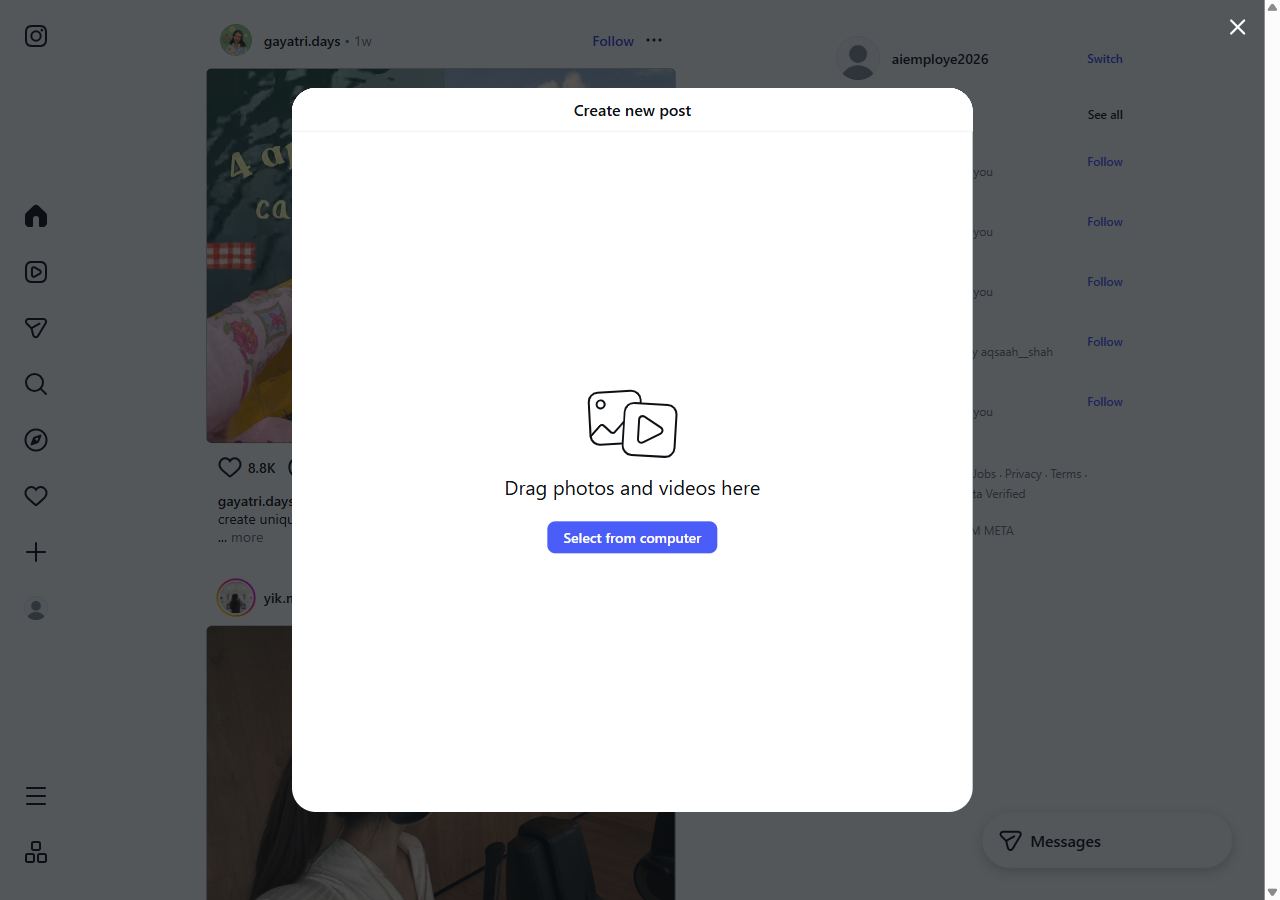
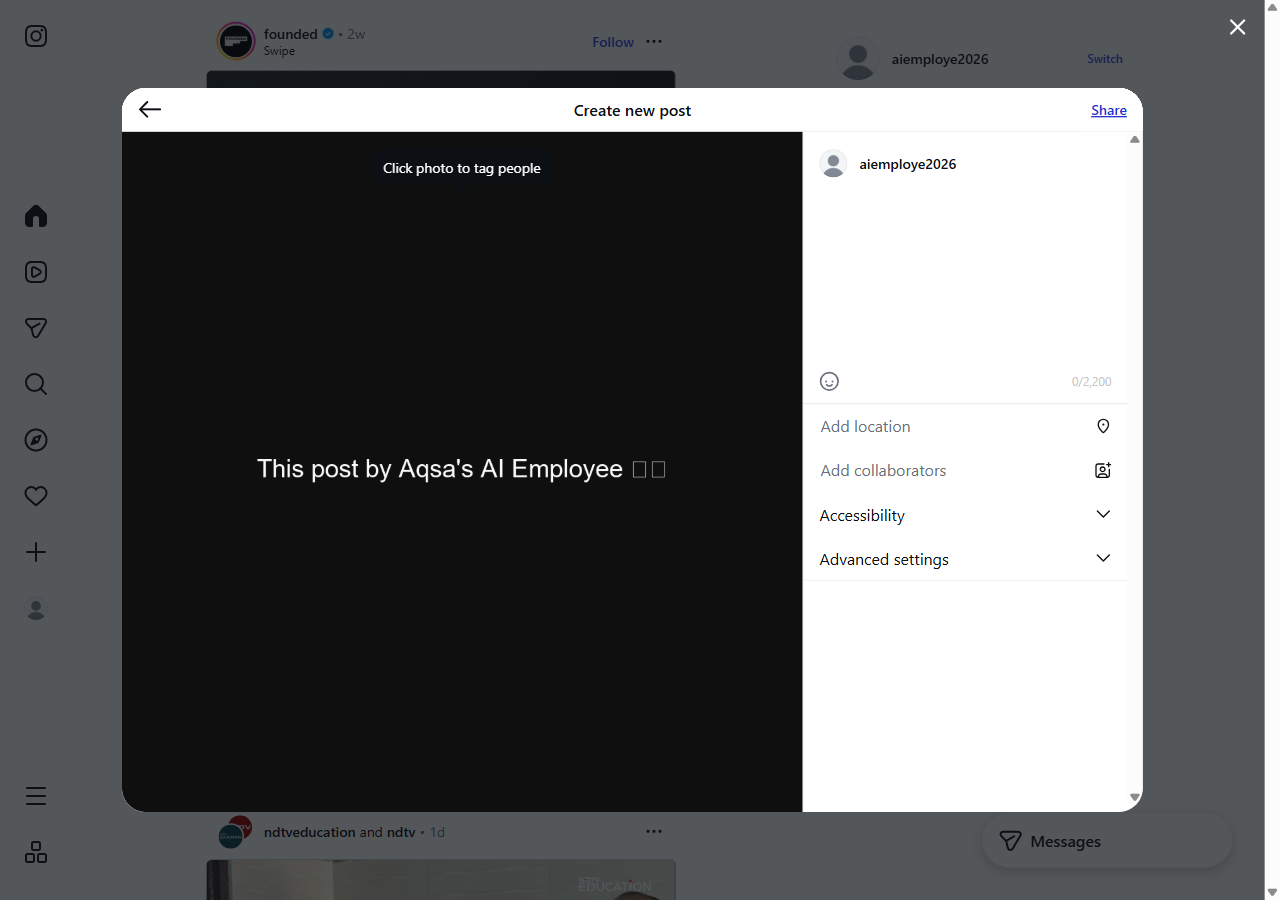
fixes

diff --git a/watchers/instagram_watcher.py b/watchers/instagram_watcher.py
@@ -297,33 +297,39 @@ class InstagramPoster:
 
                 # Upload the image via file input
                 logger.info(f"Uploading image: {img_path}")
+                uploaded = False
+
+                # Method 1: Direct set on hidden input (most reliable)
                 try:
-                    # Set file on the hidden file input
-                    with page.expect_file_chooser() as fc_info:
-                        # Try clicking "Select from computer" button
-                        for sel in [
-                            "button:has-text('Select from computer')",
-                            "button:has-text('Select from')",
-                            "input[type='file']",
-                        ]:
-                            try:
-                                el = page.wait_for_selector(sel, timeout=5000)
-                                if el:
-                                    el.click()
-                                    break
-                            except Exception:
-                                continue
-                    fc_info.value.set_files(str(img_path))
-                    logger.info("Image uploaded via file chooser.")
-                except Exception:
-                    # Fallback: set file directly on input
+                    file_input = page.query_selector("input[type='file']")
+                    if file_input:
+                        page.evaluate("el => el.removeAttribute('style')", file_input)
+                        file_input.set_input_files(str(img_path))
+                        logger.info("Image uploaded via direct input.")
+                        uploaded = True
+                except Exception as e1:
+                    logger.warning(f"Direct input failed: {e1}")
+
+                # Method 2: File chooser via button click
+                if not uploaded:
                     try:
-                        file_input = page.wait_for_selector("input[type='file']", timeout=5000)
-                        if file_input:
-                            file_input.set_input_files(str(img_path))
-                            logger.info("Image set via input[type=file].")
-                    except Exception as fe:
-                        logger.warning(f"File upload fallback failed: {fe}")
+                        with page.expect_file_chooser(timeout=10000) as fc_info:
+                            for sel in [
+                                "button:has-text('Select from computer')",
+                                "button:has-text('Select from')",
+                            ]:
+                                try:
+                                    el = page.wait_for_selector(sel, timeout=3000)
+                                    if el and el.is_visible():
+                                        el.click()
+                                        break
+                                except Exception:
+                                    continue
+                        fc_info.value.set_files(str(img_path))
+                        logger.info("Image uploaded via file chooser.")
+                        uploaded = True
+                    except Exception as e2:
+                        logger.warning(f"File chooser failed: {e2}")
 
                 time.sleep(3)
                 page.screenshot(path=str(debug_dir / "ig_3_uploaded.png"))

diff --git a/watchers/facebook_watcher.py b/watchers/facebook_watcher.py
@@ -170,8 +170,11 @@ class FacebookPoster:
 
                 # ── Login check ────────────────────────────────────────────────
                 logger.info("Opening Facebook...")
-                page.goto("https://www.facebook.com/", wait_until="commit", timeout=60000)
-                time.sleep(4)
+                try:
+                    page.goto("https://www.facebook.com/", wait_until="domcontentloaded", timeout=120000)
+                except Exception:
+                    pass
+                time.sleep(7)
 
                 # Session expired?
                 if "login" in page.url or page.query_selector("input[name='email']"):
@@ -185,8 +188,11 @@ class FacebookPoster:
 
                 # ── Go to Facebook Page ────────────────────────────────────────
                 logger.info(f"Navigating to Page: {FACEBOOK_PAGE_URL}")
-                page.goto(FACEBOOK_PAGE_URL, wait_until="commit", timeout=60000)
-                time.sleep(4)
+                try:
+                    page.goto(FACEBOOK_PAGE_URL, wait_until="domcontentloaded", timeout=120000)
+                except Exception:
+                    pass
+                time.sleep(7)
 
                 # Screenshot 1 — page load
                 debug_dir = Path("debug_screenshots")
@@ -229,11 +235,14 @@ class FacebookPoster:
 
                 # ── Navigate to Meta Business Suite composer ───────────────────
                 logger.info("Navigating to Meta Business Suite post composer...")
-                page.goto(
-                    "https://business.facebook.com/latest/composer/",
-                    wait_until="commit", timeout=60000
-                )
-                time.sleep(5)
+                try:
+                    page.goto(
+                        "https://business.facebook.com/latest/composer/",
+                        wait_until="domcontentloaded", timeout=120000
+                    )
+                except Exception:
+                    pass
+                time.sleep(10)
                 page.screenshot(path=str(debug_dir / "fb_composer_page.png"))
                 logger.info("Screenshot: debug_screenshots/fb_composer_page.png")
 

diff --git a/watchers/twitter_watcher.py b/watchers/twitter_watcher.py
@@ -196,15 +196,18 @@ class TwitterPoster:
                 page = context.new_page()
 
                 logger.info("Opening X (Twitter)...")
-                page.goto("https://x.com/home", wait_until="domcontentloaded", timeout=60000)
+                try:
+                    page.goto("https://x.com/home", wait_until="domcontentloaded", timeout=120000)
+                except Exception:
+                    pass
 
                 # Wait for page to fully load — sidebar nav is a reliable signal
                 try:
-                    page.wait_for_selector("[data-testid='SideNav_NewTweet_Button']", timeout=20000)
+                    page.wait_for_selector("[data-testid='SideNav_NewTweet_Button']", timeout=40000)
                     logger.info("Home page loaded.")
                 except Exception:
                     pass
-                time.sleep(3)
+                time.sleep(6)
 
                 if "login" in page.url or "signin" in page.url:
                     browser.close()

diff --git a/watchers/linkedin_watcher.py b/watchers/linkedin_watcher.py
@@ -159,9 +159,11 @@ class LinkedInPoster:
 
                 # ── Create post ────────────────────────────────────────────────
                 logger.info("Going to LinkedIn feed to open post composer...")
-                page.goto("https://www.linkedin.com/feed/", timeout=60000)
-                page.wait_for_load_state("domcontentloaded")
-                time.sleep(5)
+                try:
+                    page.goto("https://www.linkedin.com/feed/", wait_until="domcontentloaded", timeout=120000)
+                except Exception:
+                    pass  # page may still be usable even if full load times out
+                time.sleep(8)
                 page.screenshot(path="debug_screenshots/li_post_new.png")
 
                 # Click "Start a post" button in the feed share box

diff --git a/AI_Employee_Vault/Done/INSTAGRAM_2026-03-31.md b/AI_Employee_Vault/Done/INSTAGRAM_2026-03-31.md
@@ -1,40 +1,13 @@
 ---
-type: instagram_post
-topic: Pakistan tech scene
-drafted: 2026-03-31T05:01:00.114955+00:00
-status: posted
-char_count: 632
+platform: instagram
+date: 2026-03-31
+status: pending
+media: lotus_underwater_nature.jpg
+caption: This post by Aqsa's AI Employee 🤖✨
 ---
 
-# Instagram Post — 2026-03-31
-
-> **Topic:** Pakistan tech scene
-> **Drafted by:** AI Employee (Instagram Scheduler)
-> **Char count:** 632 / 2200
-
----
-
-## Post Content
-
-Pakistan's tech scene isn't "emerging" anymore — it's here. 🚀
-
-We're building AI tools, shipping SaaS products, and closing global clients from Lahore, Karachi, and Islamabad. No permission needed. No gatekeepers.
-
-I build full stack systems and AI solutions that run 24/7 — because the world doesn't wait for your timezone, and neither should your software.
-
-The talent here is real. The hunger is unmatched. And the best part? We're just getting started. 💻🇵🇰
-
-What's one thing about Pakistan's tech scene that deserves more attention? Drop it below 👇
-
-#PakistanTech #FullStackDeveloper #AIEngineer #BuildInPublic #TechFromPakistan
-
----
-
-## Instructions
-- **APPROVE:** Move this file to `/Approved/` — Instagram Watcher will auto-post it
-- **EDIT:** Edit the Post Content above, then move to `/Approved/`
-- **REJECT:** Move this file to `/Rejected/`
+This post by Aqsa's AI Employee 🤖✨
 
 
-## Posted [2026-03-31T05:19:32.386972+00:00]
+## Posted [2026-04-01T11:04:02.464071+00:00]
 - **Result:** Post published on Instagram

diff --git a/AI_Employee_Vault/Pending_Approval/WHATSAPP_REPLY_2026-04-01_GIAIC_03_AI_Spec-Driven_Online_Hackathon.md b/AI_Employee_Vault/Pending_Approval/WHATSAPP_REPLY_2026-04-01_GIAIC_03_AI_Spec-Driven_Online_Hackathon.md
@@ -1,0 +1,25 @@
+---
+type: whatsapp_reply
+contact: GIAIC 03 AI/Spec-Driven Online Hackathon
+drafted: 2026-04-01T11:03:40.696479+00:00
+status: pending_approval
+---
+
+# WhatsApp Reply — GIAIC 03 AI/Spec-Driven Online Hackathon — 2026-04-01
+
+> **To:** GIAIC 03 AI/Spec-Driven Online Hackathon
+> **Original message:**
+- (no text)
+
+---
+
+## Reply Content
+
+I don't have enough context to write this reply since there's no actual message content from GIAIC 03 to respond to. Could you share what they actually wrote to me so I can reply naturally as Aqsa?
+
+---
+
+## Instructions
+- **APPROVE:** Move to `/Approved/` — WhatsApp Watcher will auto-send it
+- **EDIT:** Edit Reply Content above, then move to `/Approved/`
+- **REJECT:** Move to `/Rejected/`

diff --git a/AI_Employee_Vault/Inbox/WHATSAPP_20260401_160335_GIAIC_03_AI_Spec-Driven_Online_Hackathon.md b/AI_Employee_Vault/Inbox/WHATSAPP_20260401_160335_GIAIC_03_AI_Spec-Driven_Online_Hackathon.md
@@ -1,0 +1,23 @@
+---
+type: whatsapp_message
+contact: GIAIC 03 AI/Spec-Driven Online Hackathon
+received: 2026-04-01T11:03:35.614896+00:00
+status: needs_action
+---
+
+# WhatsApp — GIAIC 03 AI/Spec-Driven Online Hackathon — 2026-04-01 16:03
+
+> **From:** GIAIC 03 AI/Spec-Driven Online Hackathon
+> **Received:** 2026-04-01 16:03:35
+
+---
+
+## Messages
+
+- (no text)
+
+---
+
+## Instructions
+- Run `/process-inbox` to let Claude draft a reply
+- Reply file will appear in `Pending_Approval/WHATSAPP_REPLY_*.md`

diff --git a/AI_Employee_Vault/Dashboard.md b/AI_Employee_Vault/Dashboard.md
@@ -16,6 +16,8 @@ version: 0.1
 ## Recent Activity
 
 | Time (UTC)          | Action                                      |
+| 2026-04-01 16:06:24 | Facebook post success: FACEBOOK_2026-04-01.md |
+| 2026-04-01 16:04:02 | Instagram post success: INSTAGRAM_2026-03-31.md |
 | 2026-04-01 14:59:40 | Twitter post success: TWITTER_2026-04-01_1.md |
 | 2026-04-01 14:54:45 | Instagram post success: INSTAGRAM_2026-04-01.md |
 | 2026-03-31 14:25:45 | LinkedIn post success: LINKEDIN_2026-03-30.md |

diff --git a/AI_Employee_Vault/Done/FACEBOOK_2026-04-01.md b/AI_Employee_Vault/Done/FACEBOOK_2026-04-01.md
@@ -7,3 +7,7 @@ caption: Demo of my personal AI employee in action 🚀
 ---
 
 Demo of my personal AI employee in action 🚀
+
+
+## Posted [2026-04-01T11:06:24.696383+00:00]
+- **Result:** Post published on Facebook
